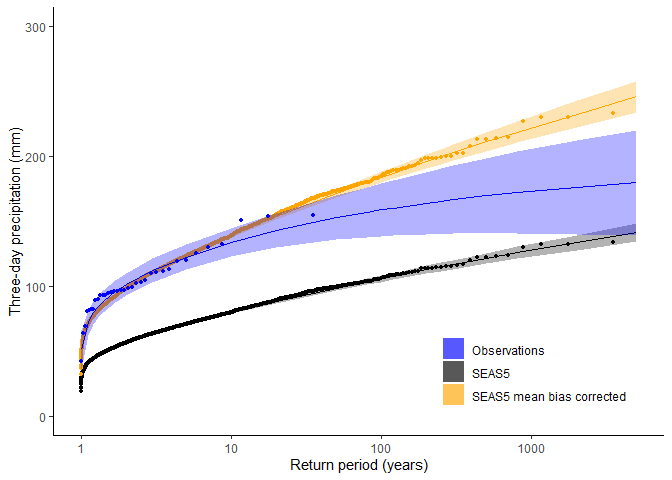
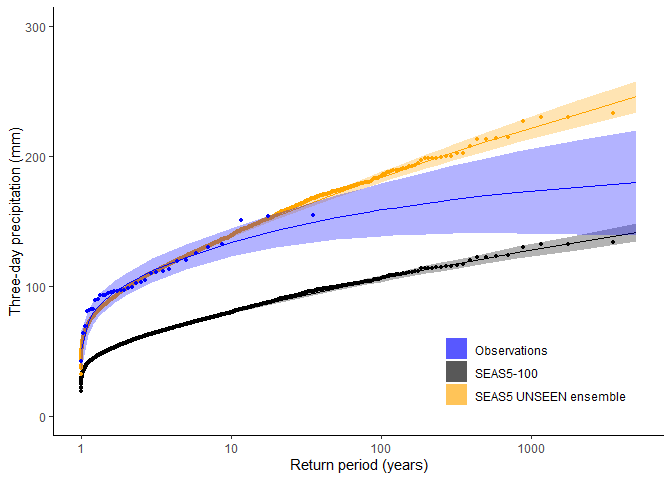
c

Changed region(s): [[0.6562, 0.7188, 0.9375, 0.8438]]

diff --git a/README.md b/README.md
@@ -20,8 +20,8 @@ How have the 100-year precipitation events changed over last 35 years? The large
 
 ## Outlook
 
-We envision that further applications can 1) help estimateing design values, especially relevant for data scarce regions; 2) improve risk estimation of natural hazards by coupling UNSEEN to impact models; 3) detect trends in rare climate extremes, including variables other than precipitation; and 4) increase our physical understanding of the drivers of non-stationarity of climate extremes, through the possible attribution of detected trends. 
+We envision that further applications can 1) help estimate design values, especially relevant for data scarce regions; 2) improve risk estimation of natural hazards by coupling UNSEEN to impact models; 3) detect trends in rare climate extremes, including variables other than precipitation; and 4) increase our physical understanding of the drivers of non-stationarity of climate extremes, through the possible attribution of detected trends. 
 
 We hope this approach may see many applications across a range of scientific fields!
 
-Please don't hesitate to ask any questions. 
+If any questions may arise, please don't hesitate to get in touch t.kelder@lboro.ac.uk. 

diff --git a/Notebooks/Model_fidelity.md b/Notebooks/Model_fidelity.md
@@ -223,13 +223,13 @@ EVT_plot <- function(obs=obs,GEV_type) {
   datapoints_S5=data.frame(cbind(rp_S5,S5_raw_sorted,S5_corrected_sorted,obs_sorted))
   
   ##And plot
-  cols=c("SEAS5"="black","SEAS5 mean bias corrected"="orange","Observations"="blue") ##for  the legend
+  cols=c("SEAS5-100"="black","SEAS5 UNSEEN ensemble"="orange","Observations"="blue") ##for  the legend
   p1=ggplot(data = rvs_WC_stationair,aes(x=rperiods))+
     geom_line(aes(y = S5),col='black')+
-    geom_ribbon(aes(ymin=S5_l,ymax=S5_h,fill="SEAS5"),alpha=0.3)+
+    geom_ribbon(aes(ymin=S5_l,ymax=S5_h,fill="SEAS5-100"),alpha=0.3)+
     geom_point(data=datapoints_S5,aes(x=rp_S5,y = S5_raw_sorted),col='black',size=1)+
     geom_line(aes(y = S5_corrected),col='orange')+
-    geom_ribbon(aes(ymin=S5_corrected_l,ymax=S5_corrected_h,fill='SEAS5 mean bias corrected'), alpha=0.3)+
+    geom_ribbon(aes(ymin=S5_corrected_l,ymax=S5_corrected_h,fill='SEAS5 UNSEEN ensemble'), alpha=0.3)+
     geom_point(data=datapoints_S5,aes(x=rp_S5,y = S5_corrected_sorted),col='orange',size=1)+
     geom_line(aes(y = Obs),col='blue')+
     geom_ribbon(aes(ymin=Obs_l,ymax=Obs_h,fill='Observations'), alpha=0.3)+
